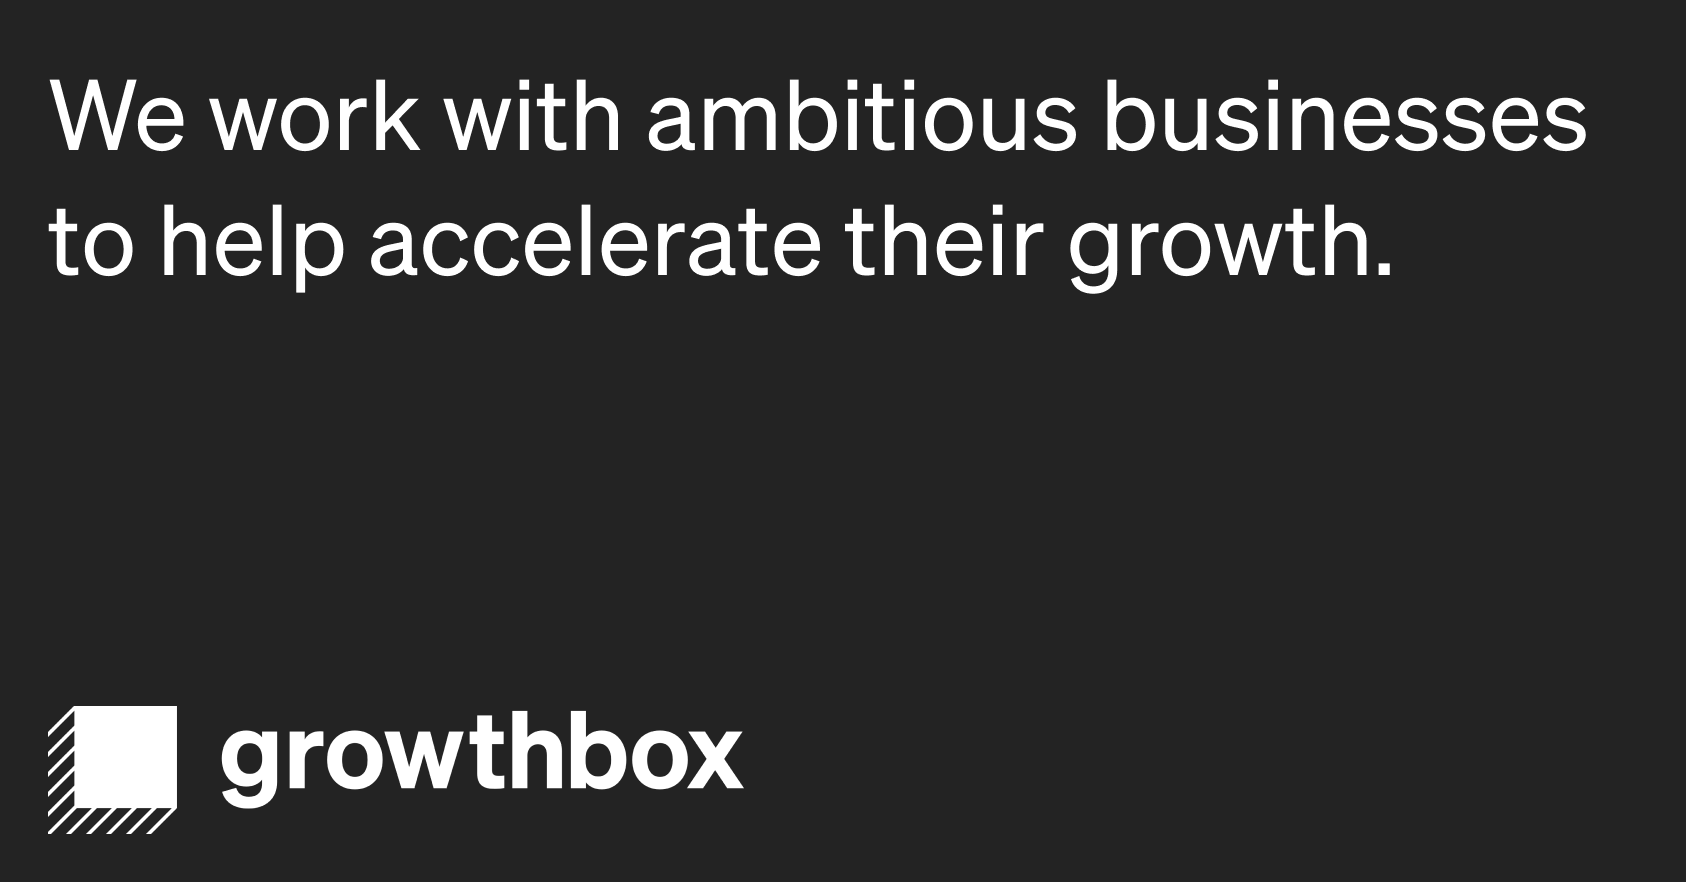
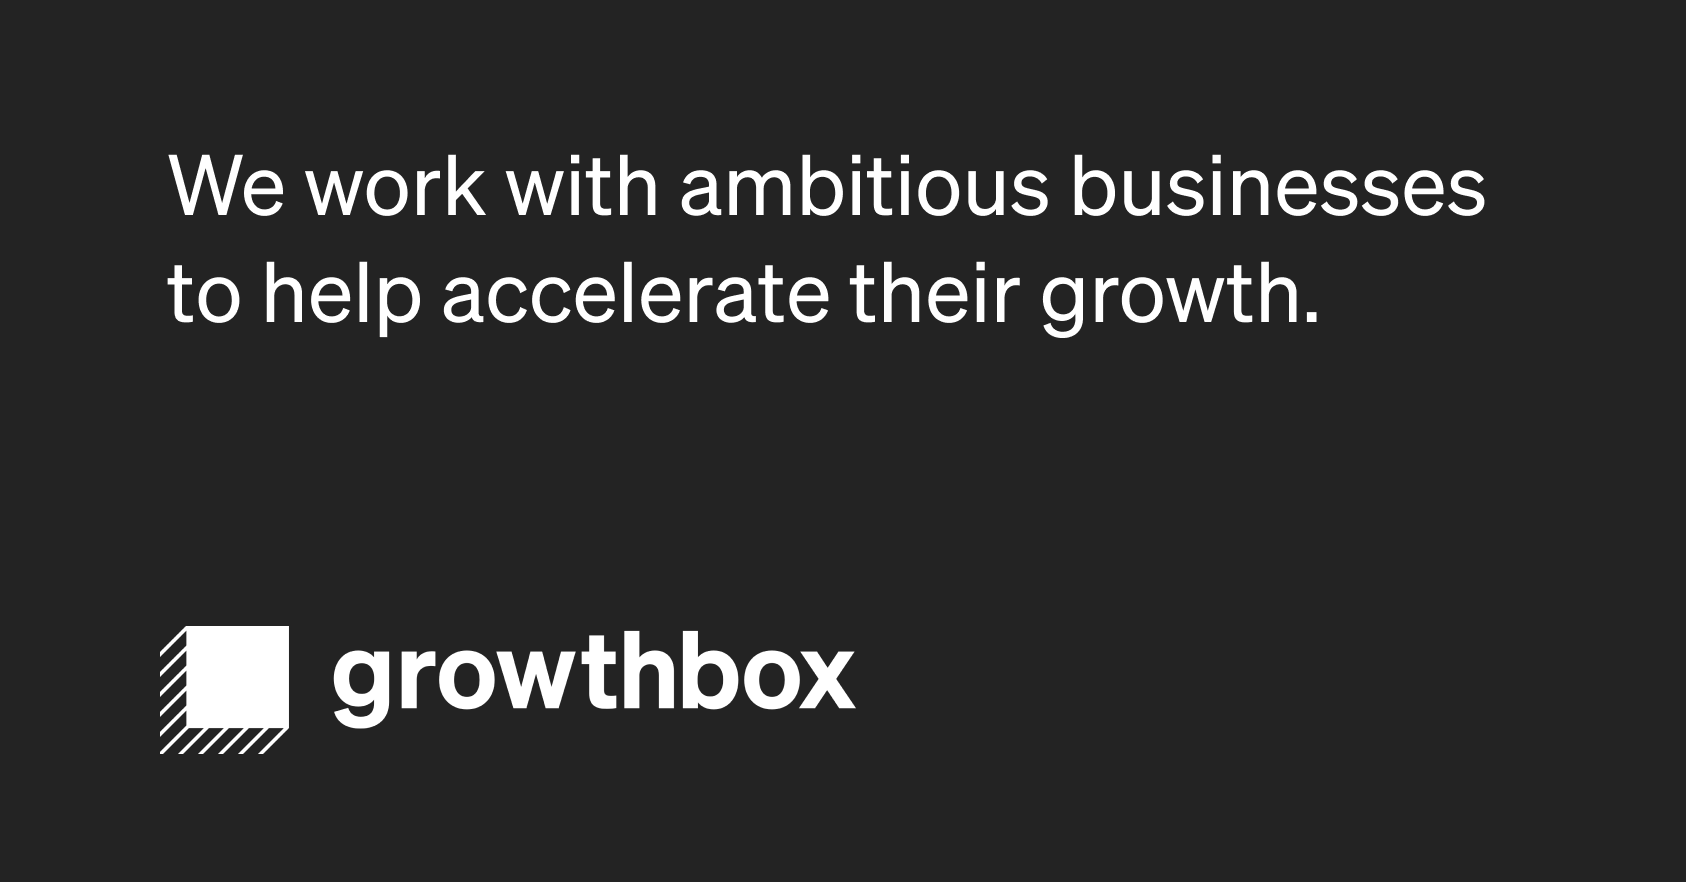
Updated layout of image to work better across multiple social networks

Changed region(s): [[0.0308, 0.0918, 0.9561, 0.398], [0.0308, 0.7041, 0.5243, 0.949]]

diff --git a/index.html b/index.html
@@ -6,11 +6,24 @@
 	<link rel="icon" 
       type="image/png" 
       href="./gb-favicon-256.png">
+
     <meta name="viewport" content="width=device-width, initial-scale=1, maximum-scale=1, user-scalable=0"/>
-    <meta name="description" content="Growthbox | We work with ambitious businesses to help accelerate their growth">
-    <meta property="og:title" content="Growthbox | We work with ambitious businesses to help accelerate their growth">
-    <meta property="og:image" content="https://growthbox.com.au/img/growthbox_og_image.png" />
-    <meta property="og:description" content="Growthbox | We work with ambitious businesses to help accelerate their growth">
+	<!-- Opengraph -->
+	<title>Growthbox | We work with ambitious businesses to help accelerate their growth</title>
+	<meta name="description" content="Growthbox | We work with ambitious businesses to help accelerate their growth">
+	<meta property="og:url" content="https://growthbox.com.au">
+	<meta property="og:type" content="website">
+	<meta property="og:title" content="Growthbox | We work with ambitious businesses to help accelerate their growth">
+	<meta property="og:description" content="Growthbox | We work with ambitious businesses to help accelerate their growth">
+	<meta property="og:image" content="https://growthbox.com.au/img/growthbox_og_image.png">
+	<meta name="twitter:card" content="summary_large_image">
+	<meta property="twitter:domain" content="growthbox.com.au">
+	<meta property="twitter:url" content="https://growthbox.com.au">
+	<meta name="twitter:title" content="Growthbox | We work with ambitious businesses to help accelerate their growth">
+	<meta name="twitter:description" content="Growthbox | We work with ambitious businesses to help accelerate their growth">
+	<meta name="twitter:image" content="https://growthbox.com.au/img/growthbox_og_image.png">
+
+        
 </head>
 <body>
 
